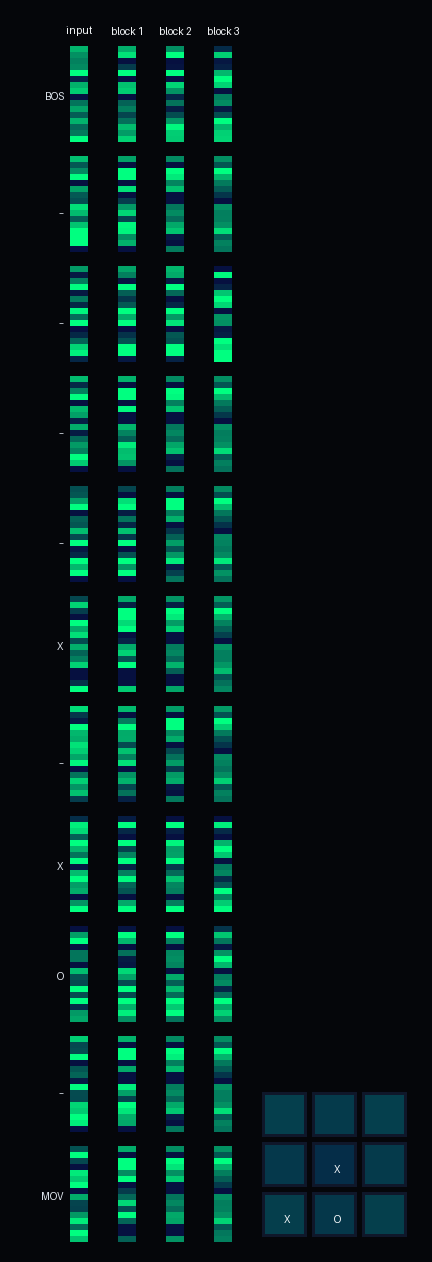
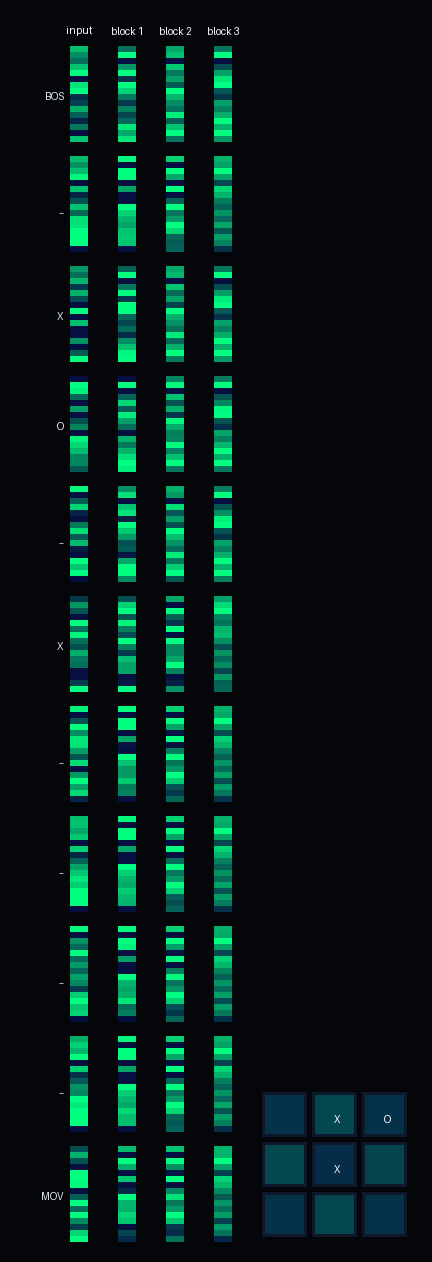
bedtime. this is close but something feels off

diff --git a/tictactokenizer.py b/tictactokenizer.py
@@ -35,8 +35,8 @@ MOV_ID = stoi["MOV"]
 MOVE_TOKEN_IDS = [stoi[str(i)] for i in range(1, 10)]
 vocab_size = len(TOKENS)
 print(f"vocab size: {vocab_size}")
-# introspection_board = ["_", "X", "O", "_", "X", "_", "_", "_", "_"]
-introspection_board = ["_", "_", "_", "_", "X", "_", "X", "O", "_"]
+introspection_board = ["_", "X", "O", "_", "X", "_", "_", "_", "_"]
+# introspection_board = ["_", "_", "_", "_", "X", "_", "X", "O", "_"]
 
 # Hyperparameters loaded from shared config
 MODEL_CONFIG_PATH = "model_config.json"
@@ -48,9 +48,9 @@ n_embd = model_config["n_embd"]
 block_size = model_config["block_size"]  # BOS + 9 board cells + MOV
 n_head = model_config["n_head"]
 
-learning_rate, beta1, beta2, eps_adam = 0.006, 0.85, 0.99, 1e-8
+learning_rate, beta1, beta2, eps_adam = 0.01, 0.85, 0.99, 1e-8
 num_steps = 2000
-batch_size = 8
+batch_size = 64
 weights_path = "tictactokenizer_weights.pt"
 
 class TicTacToeEngine:
@@ -169,13 +169,6 @@ class MultiHeadAttention(nn.Module):
         self.wk = nn.Linear(n_embd, n_embd, bias=False)
         self.wv = nn.Linear(n_embd, n_embd, bias=False)
         self.wo = nn.Linear(n_embd, n_embd, bias=False)
-        # mask = torch.tril(torch.ones(block_size, block_size, dtype=torch.bool)).view(
-        #     1, 1, block_size, block_size
-        # )
-        mask = torch.ones(block_size, block_size, dtype=torch.bool).view(
-            1, 1, block_size, block_size
-        )
-        self.register_buffer("mask", mask, persistent=False)
 
     def forward(self, x: torch.Tensor) -> torch.Tensor:
         B, T, C = x.shape
@@ -183,7 +176,6 @@ class MultiHeadAttention(nn.Module):
         k = self.wk(x).view(B, T, self.n_head, self.head_dim).transpose(1, 2)
         v = self.wv(x).view(B, T, self.n_head, self.head_dim).transpose(1, 2)
         attn = (q @ k.transpose(-2, -1)) * (self.head_dim ** -0.5)
-        attn = attn.masked_fill(self.mask[:, :, :T, :T] == 0, float("-inf"))
         weights = F.softmax(attn, dim=-1)
         out = weights @ v
         out = out.transpose(1, 2).contiguous().view(B, T, C)
@@ -251,11 +243,12 @@ class MicroGPT(nn.Module):
 
 
 def generate_training_sequence(
-    engine: TicTacToeEngine, return_state: bool = False
+    engine: TicTacToeEngine
 ) -> List[int] | Tuple[List[int], List[str], int]:
     board: List[str]
     while True:
         board = ["_"] * 9
+        # board = introspection_board.copy()
         max_moves = random.randint(0, 8)
         for _ in range(max_moves):
             legal = engine.legal_moves(board)
@@ -268,10 +261,10 @@ def generate_training_sequence(
         if engine.check_winner(board) is None and engine.legal_moves(board):
             break
 
+    # if engine.pretty(board) == engine.pretty(introspection_board):
+    #     print("!!!!!!! TRAINING ON INTROSPECTION BOARD !!!!!!!")
     move = engine.select_best_move(board)
     seq = [BOS_ID] + [stoi[cell] for cell in board] + [MOV_ID, stoi[str(move + 1)]]
-    if return_state:
-        return seq, board.copy(), move
     return seq
 
 
@@ -286,7 +279,7 @@ def sample_batch(
     mask = torch.zeros((batch_size, block_size), dtype=torch.float32)
     for i in range(batch_size):
         seq = generate_training_sequence(engine)
-        seq = seq[: block_size + 1]
+        # seq = seq[: block_size + 1]
         seq_len = len(seq) - 1
         x[i, :seq_len] = torch.tensor(seq[:-1], dtype=torch.long)
         y[i, :seq_len] = torch.tensor(seq[1:], dtype=torch.long)
